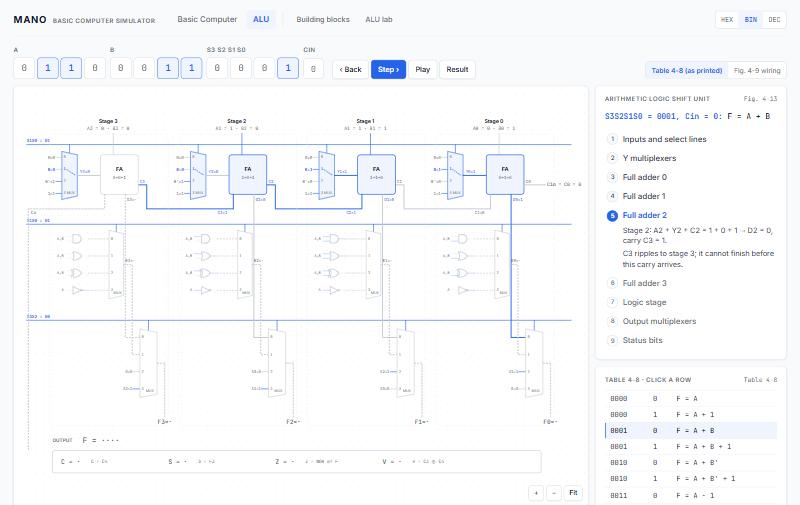
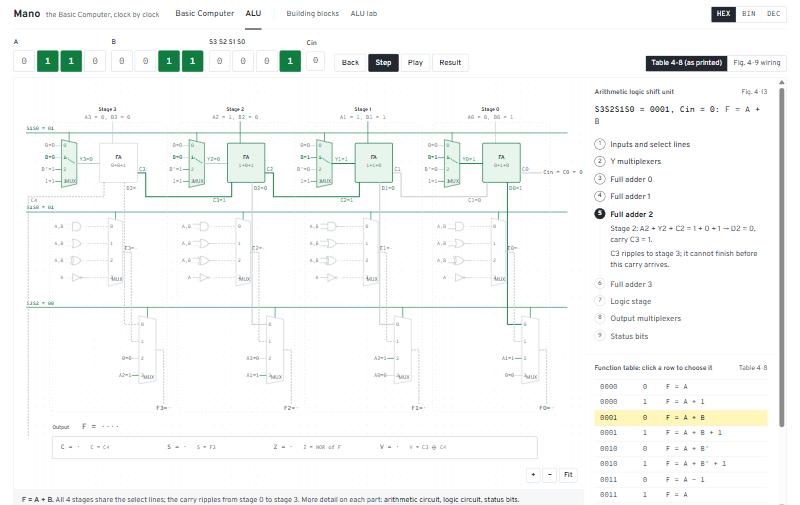
End-to-end check and release polish
- Fix the result addresses in the texts of examples 8 and 9 and add a
  test that checks every '(address XXX)' against the symbol table.
- Darken signal green to reach 4.5:1 text contrast.
- Bus block shows bus values in binary so hex 'A' is not read as
  register A.
- Favicon, meta description, noscript; local tool config is no longer
  tracked. README explains the green / highlight convention; new
  screenshots taken from the production build.

diff --git a/src/ui/rooms/blocks/bus.tsx b/src/ui/rooms/blocks/bus.tsx
@@ -1,5 +1,5 @@
 import { useState } from 'react';
-import { type Bit } from '../../../core/bits';
+import { toBin, type Bit } from '../../../core/bits';
 import { busComponentCounts, clockTransfers, muxBus, triStateBus } from '../../../core/blocks/bus';
 import { BlockHeader, useWord, WidthSelect } from '../../common/blocks';
 import { BitInput, BitToggle, Panel, Ref, Word } from '../../common/controls';
@@ -137,7 +137,7 @@ export function BusBlock() {
           </table>
           {n > bitsShown && <p className="muted" style={{ fontSize: 13 }}>Showing bits 0-{bitsShown - 1} of {n}.</p>}
           <p className="result" style={{ margin: '12px 0 0' }}>
-            Bus = <Word value={m.value} width={n} /> ({NAMES[s]})
+            Bus = {toBin(m.value, n)}, from register {NAMES[s]}
           </p>
           <p className="mono muted" style={{ margin: '6px 0 0' }}>
             Components: {counts.mux.multiplexers} MUXes of {counts.mux.muxSize}
@@ -171,7 +171,7 @@ export function BusBlock() {
             </tbody>
           </table>
           <p className="result" style={{ margin: '12px 0 0' }}>
-            Bus = <Word value={t.value} width={n} /> ({NAMES[s]})
+            Bus = {toBin(t.value, n)}, from register {NAMES[s]}
           </p>
           <p className="mono muted" style={{ margin: '6px 0 0' }}>
             Components: {counts.triState.buffers} buffers + {counts.triState.decoders} decoder ({counts.triState.decoderSize})
@@ -179,7 +179,7 @@ export function BusBlock() {
         </Panel>
       </div>
       <p className="notice" style={{ margin: 0 }}>
-        Same select value, same result: {m.value === t.value ? 'both buses carry' : 'MISMATCH'} <Word value={m.value} width={n} />.
+        Same select value, same result: {m.value === t.value ? 'both buses carry' : 'MISMATCH'} {toBin(m.value, n)}.
       </p>
     </>
   );

diff --git a/index.html b/index.html
@@ -3,10 +3,14 @@
   <head>
     <meta charset="UTF-8" />
     <meta name="viewport" content="width=device-width, initial-scale=1.0" />
+    <meta name="description" content="Watch M. Morris Mano's Basic Computer and ALU work as circuits, clock pulse by clock pulse." />
+    <meta name="theme-color" content="#ffffff" />
+    <link rel="icon" type="image/svg+xml" href="/favicon.svg" />
     <title>Mano Basic Computer</title>
   </head>
   <body>
     <div id="root"></div>
+    <noscript>This simulator needs JavaScript to run.</noscript>
     <script type="module" src="/src/main.tsx"></script>
   </body>
 </html>

diff --git a/src/core/assembler/assembler.test.ts b/src/core/assembler/assembler.test.ts
@@ -134,3 +134,14 @@ describe('assembly example programs run to the expected results', () => {
     expect(sim.history.some((h) => h.text === 'BUN 000 I')).toBe(true);
   });
 });
+
+describe('example texts', () => {
+  it('name the addresses the assembler really gives their symbols', () => {
+    for (const ex of ASM_EXAMPLES) {
+      const symbols = assemble(ex.source).symbols;
+      for (const m of ex.expect.matchAll(/([A-Z]{1,3}) \(address ([0-9A-F]{3})\)/g)) {
+        expect(symbols.get(m[1]), `${ex.id}: ${m[0]}`).toBe(parseInt(m[2], 16));
+      }
+    }
+  });
+});

diff --git a/src/core/programs/asmExamples.ts b/src/core/programs/asmExamples.ts
@@ -45,7 +45,7 @@ SUB,    DEC 23      / subtrahend
 DIF,    HEX 0       / the difference goes here
         END
 `,
-    expect: 'DIF (address 109) = 003C, decimal 60.',
+    expect: 'DIF (address 108) = 003C, decimal 60.',
   },
   {
     id: 'asm-or',
@@ -69,7 +69,7 @@ TMP,    HEX 0
 C,      HEX 0
         END
 `,
-    expect: 'C (address 10D) = 0FFF = 0F0F OR 00FF.',
+    expect: 'C (address 10C) = 0FFF = 0F0F OR 00FF.',
   },
   {
     id: 'asm-io',

diff --git a/src/ui/theme.css b/src/ui/theme.css
@@ -16,7 +16,7 @@
   --rule-strong: #cdd2d8;
   --wire: #c4c9d0;
   --grid: #e7eaee;
-  --signal: #13914b;
+  --signal: #0e7d3f;
   --signal-soft: #e7f5ec;
   --highlight: #ffe95c;
   --highlight-soft: #fff6b8;

diff --git a/README.md b/README.md
@@ -7,6 +7,9 @@ which path every signal takes through them.
 Everything follows Mano's notation: register names, bus select numbers, RTL such as `M[AR]`,
 timing signals T0…T15, the control equations of Sec. 5-10, and figure and table numbers.
 
+Reading the drawings: a **green** wire carries 1 or an active control signal (the convention of
+logic simulators); a **yellow highlight** marks a value that changed on the clock edge.
+
 ![The Basic Computer circuit during the data-flow sub-step of D1T4 (ADD 205)](docs/screenshots/basic-computer.jpg)
 
 ## Basic Computer (Ch. 5–6)
